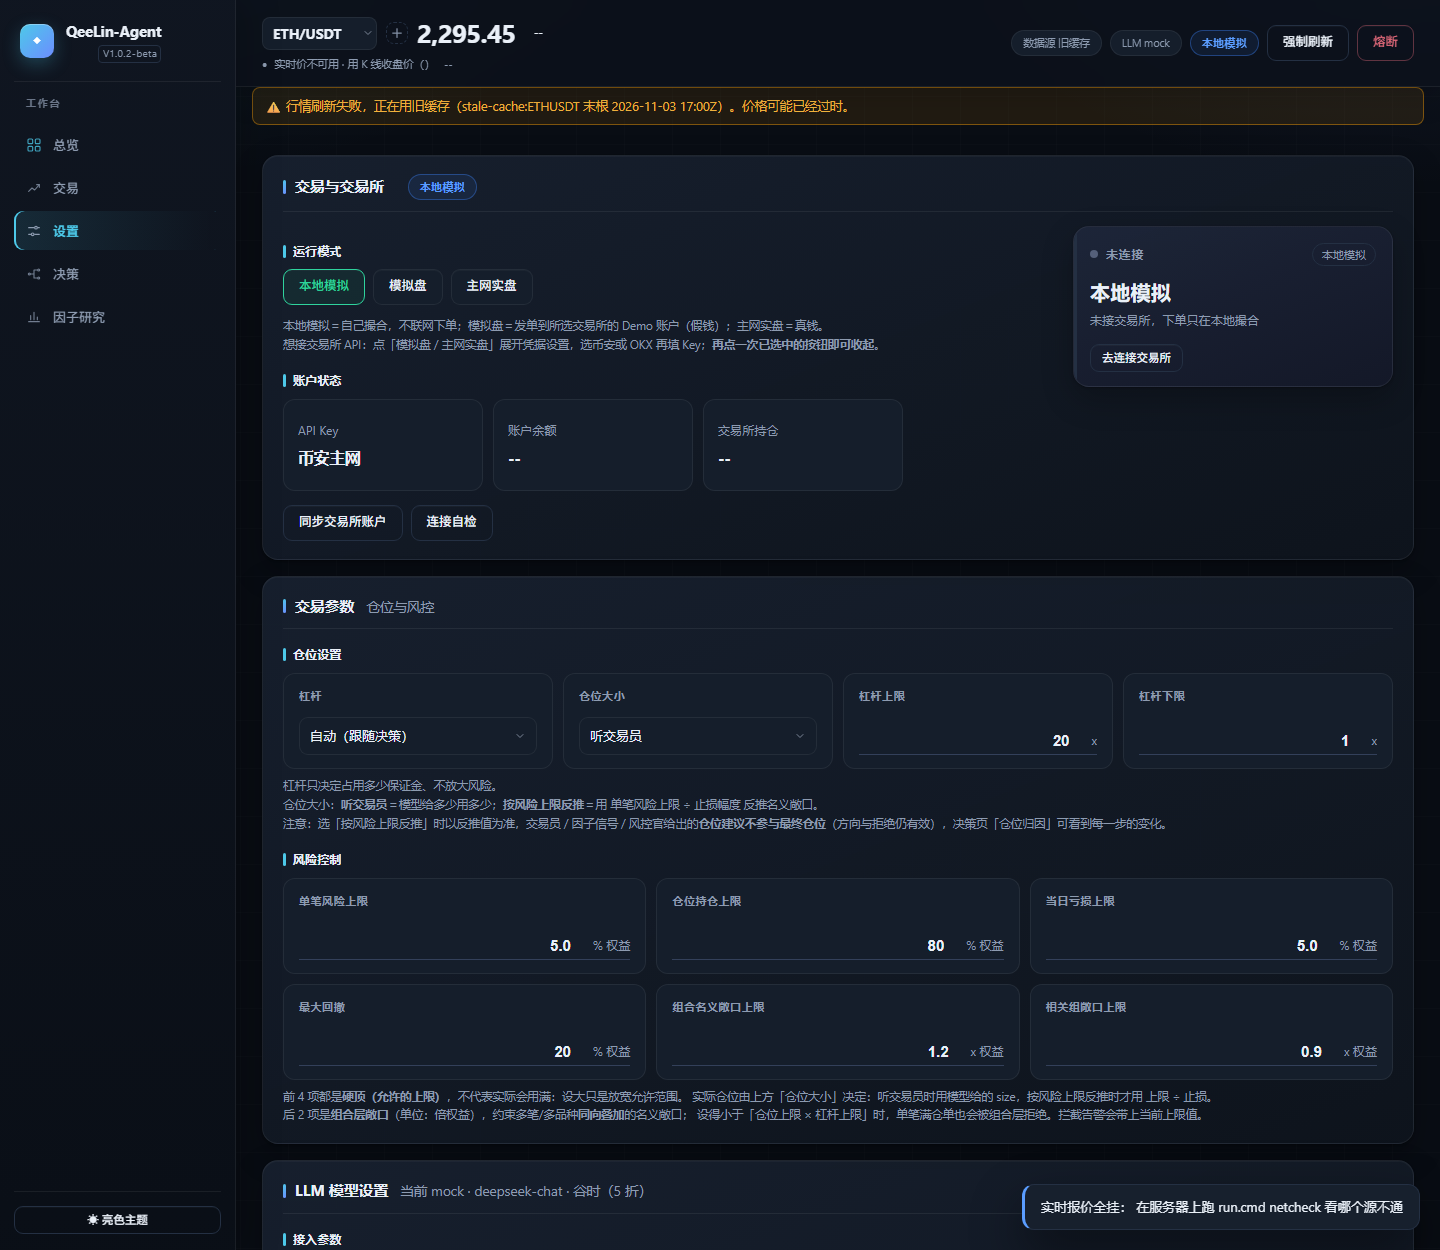
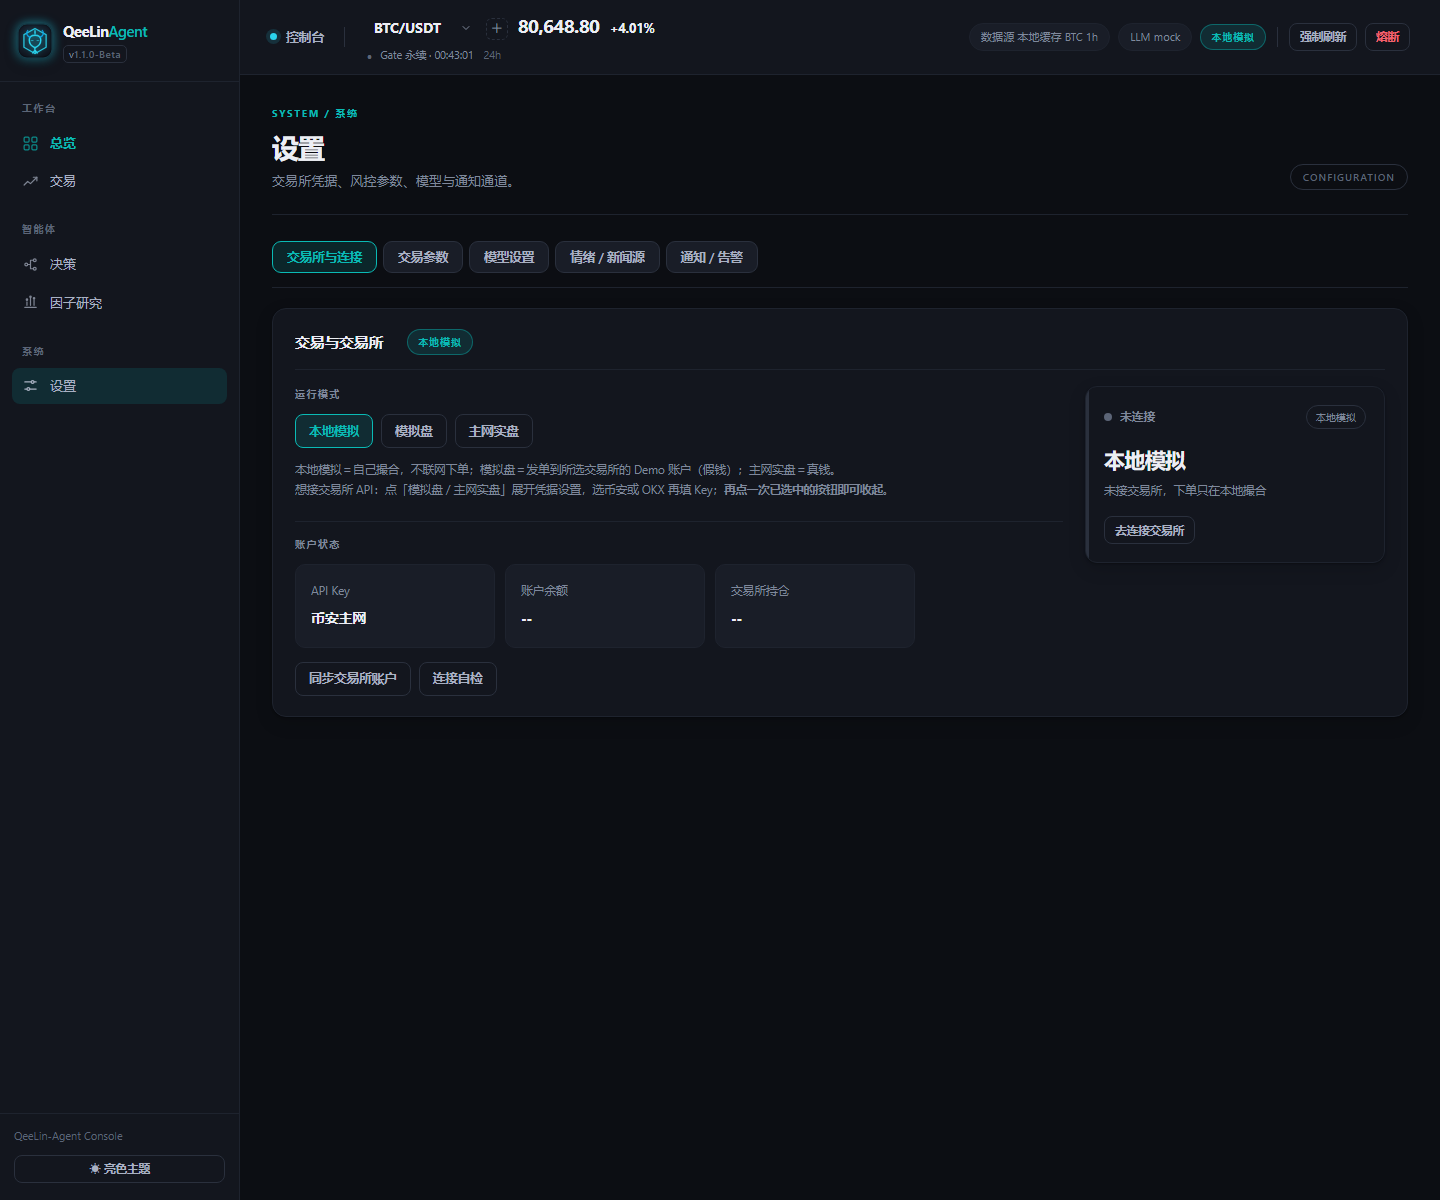
docs(screenshots): 五张界面截图全部按最新版 UI 重拍（1440x1200，线上真实行情/决策/因子数据），侧栏版本号统一显示 v1.1.0-Beta

diff --git a/src/cryptoagent/web/static/app.js b/src/cryptoagent/web/static/app.js
@@ -1031,7 +1031,7 @@ function renderStatus(s) {
   $('dataSource').textContent = `数据源 ${loading ? '加载中…' : shortSource(s.data_source)}`;
   $('dataSource').title = s.data_source || '';
   $('llmTag').textContent = `LLM ${s.llm.provider}`;
-  if (s.server && s.server.version) $('verTag').innerHTML = `<span class="ver-v">V</span>${esc(s.server.version)}`;
+  if (s.server && s.server.version) $('verTag').innerHTML = `<span class="ver-v">v</span>${esc(s.server.version)}`;
   renderLive(s);
   renderDataWarn(s);
 

diff --git a/README.md b/README.md
@@ -3,7 +3,7 @@
 <p align="center">
   <a href="LICENSE"><img alt="License" src="https://img.shields.io/badge/License-MIT-green.svg"></a>
   <img alt="Python" src="https://img.shields.io/badge/Python-3.10%2B-blue.svg">
-  <img alt="Version" src="https://img.shields.io/badge/version-1.1.0--Beta-orange.svg">
+  <img alt="Version" src="https://img.shields.io/badge/version-v1.1.0--Beta-orange.svg">
   <img alt="Status" src="https://img.shields.io/badge/status-research%20%2F%20education-lightgrey.svg">
 </p>
 
@@ -13,7 +13,7 @@
 
 > 核心原则：数字由代码算，语言交给模型。LLM 负责解释与权衡，不负责算术，也没有下单权限。开仓后的移动止损、时间止损、趋势反转退出，以及成本/流动性检查，全部是确定性代码。
 
-> **V1.1.0-Beta**：现代 SaaS 控制台视觉重做（分组侧栏、五个页签、双主题），并延续 V1.0.2 的持仓管理员（退出决策）、执行成本闸、43 个内置因子（含基差 / 持仓量 / 多空比等衍生品维度）与分析师权重事后校准；同时修正了默认风控上限自相矛盾的问题（组合 / 相关敞口上限已与单笔名义上限对齐）。
+> **v1.1.0-Beta**：现代 SaaS 控制台视觉重做（分组侧栏、五个页签、双主题），并延续 v1.0.2 的持仓管理员（退出决策）、执行成本闸、43 个内置因子（含基差 / 持仓量 / 多空比等衍生品维度）与分析师权重事后校准；同时修正了默认风控上限自相矛盾的问题（组合 / 相关敞口上限已与单笔名义上限对齐）。
 
 ![总览](docs/ui.png)
 
